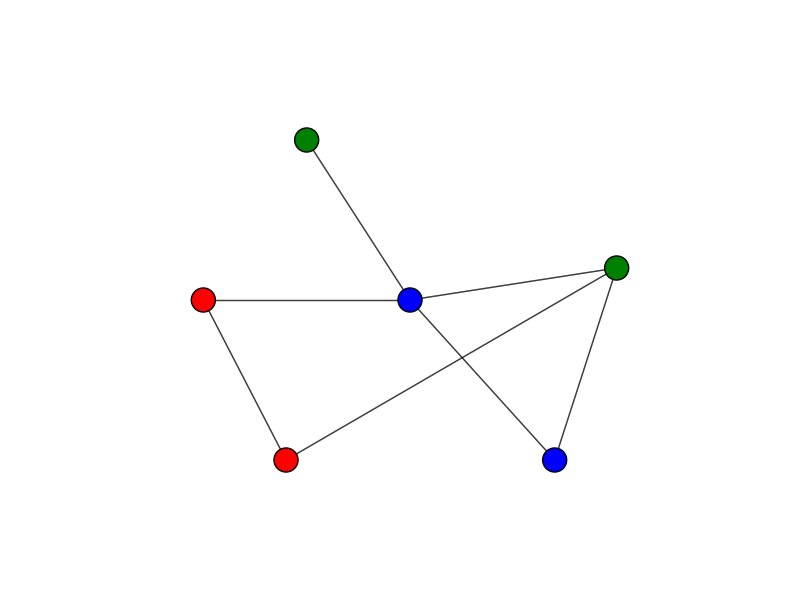
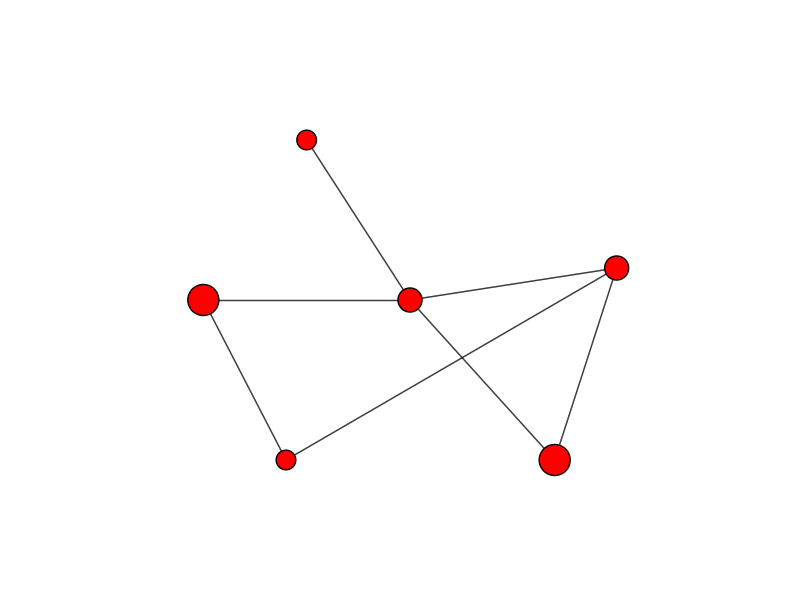
weight graph

diff --git a/network/undirectedgraphwithweights.py b/network/undirectedgraphwithweights.py
@@ -1,0 +1,46 @@
+#!/usr/bin/env python
+# coding=utf8
+#
+# Author: Archer Reilly
+# Date: 06/Mar/2016
+# File: undirectedgraphwithweightsnode.py
+# Desc: draw graph of undirected with weights
+#
+# Produced By CSRGXTU
+import matplotlib.pyplot as plt
+import networkx as nx
+from numpy import array
+
+G = nx.Graph()
+
+# add 6 same nodes
+nodes = [1, 2, 3, 4, 5, 6]
+G.add_nodes_from(nodes)
+
+# nodes coordinates
+pos = nx.spring_layout(G)
+pos[1] = array([-1,  0])
+pos[2] = array([-0.6, -1])
+pos[3] = array([0.7, -1])
+pos[4] = array([1,  0.2])
+pos[5] = array([-0.5,  1])
+pos[6] = array([0, 0])
+
+# add edges between nodes
+edges = [(1, 2), (1, 6), (2, 4), (3, 4), (3, 6), (4, 6), (5, 6)]
+G.add_edges_from(edges)
+
+# draw the nodes
+# nx.draw_networkx_nodes(G, pos, nodelist=nodes, node_color='r', node_size=500, alpha=0.8)
+nx.draw_networkx_nodes(G, pos, nodelist=[1, 3], node_size=500, alpha=1)
+nx.draw_networkx_nodes(G, pos, nodelist=[2, 5], node_size=100, alpha=1)
+nx.draw_networkx_nodes(G, pos, nodelist=[4, 6], node_size=300, alpha=1)
+
+# draw the edges
+nx.draw_networkx_edges(G, pos, width=1.0, alpha=0.5)
+nx.draw_networkx_edges(G, pos, edgelist=edges, width=1.0, alpha=0.5)
+
+# use plt plot the graph and remove axis
+plt.axis('off')
+plt.savefig("undirectedgraphwithweightnodse.png")
+plt.show()
